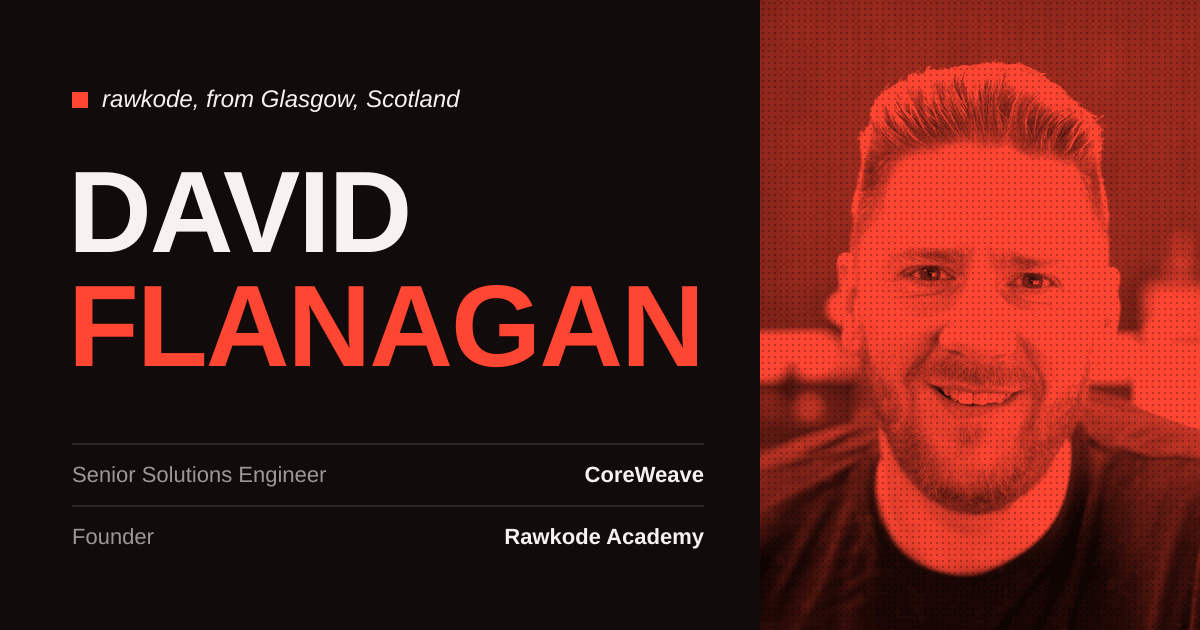
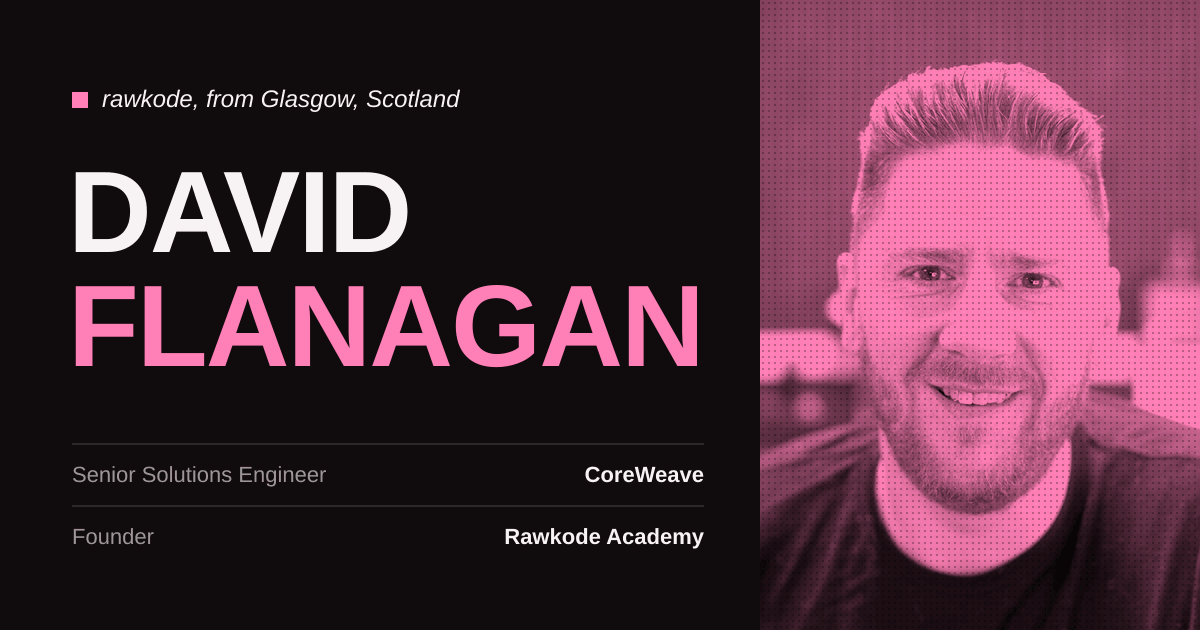
feat(rawkode.dev): replace signal red with Rawkode Academy pink
The red read as hostile. The accent is now Rawkode Academy's own pink
(#ff7ab6), which ties the two sites together and keeps the screen-print
concept, since fluorescent pink is a classic poster ink. Coverage is
unchanged: surname, portrait duotone, primary buttons, hover ink, the
Academy block, and the footer wordmark.

- Accent: oklch(0.76 0.165 355) dark, oklch(0.55 0.2 357) light, with
  dark ink or white text on it as appropriate.
- Neutrals are retinted from hue 30 to the pink's hue 355.
- Contrast holds in both themes: body text at least 9:1, pink on the
  background at least 5:1, text on pink at least 5.2:1.
- OG image, browser theme-colour meta tags, comments, and DESIGN.md
  updated to match.

Claude-Session: https://claude.ai/code/session_01E1riZP7hLfKpjZxvyKe1wQ
This commit was created with the assistance of a LLM.

diff --git a/websites/rawkode.dev/panda.config.ts b/websites/rawkode.dev/panda.config.ts
@@ -4,7 +4,8 @@ import { defineConfig } from '@pandacss/dev';
  * Design system for rawkode.dev.
  *
  * The site is dark-first and mobile-first. The palette is a screen-printed
- * gig poster: near-black ink, true off-white paper, and one signal red.
+ * gig poster: near-black ink, true off-white paper, and one fluorescent
+ * pink borrowed from Rawkode Academy.
  * Theme reactivity still uses the existing `[data-theme]` contract.
  */
 export default defineConfig({
@@ -71,16 +72,17 @@ export default defineConfig({
         },
 
         colors: {
-          /* Stage: near-black ink and signal red, like a screen-printed gig poster. */
+          /* Stage: near-black ink and fluorescent pink, like a screen-printed gig poster. */
           ink: {
-            950: { value: 'oklch(0.16 0.008 30)' },
-            900: { value: 'oklch(0.195 0.01 30)' },
-            850: { value: 'oklch(0.235 0.012 30)' },
-            100: { value: 'oklch(0.965 0.006 30)' },
+            950: { value: 'oklch(0.16 0.008 355)' },
+            900: { value: 'oklch(0.195 0.01 355)' },
+            850: { value: 'oklch(0.235 0.012 355)' },
+            100: { value: 'oklch(0.965 0.006 355)' },
           },
+          /* Rawkode Academy's accent (#ff7ab6), tuned per theme for contrast. */
           signal: {
-            dark: { value: 'oklch(0.665 0.225 30)' },
-            light: { value: 'oklch(0.55 0.215 29)' },
+            dark: { value: 'oklch(0.76 0.165 355)' },
+            light: { value: 'oklch(0.55 0.2 357)' },
           },
         },
       },
@@ -88,44 +90,44 @@ export default defineConfig({
       semanticTokens: {
         colors: {
           surface: {
-            '1':       { value: 'light-dark(oklch(0.975 0.002 30), oklch(0.16 0.008 30))' },
-            '2':       { value: 'light-dark(oklch(1 0 0), oklch(0.195 0.01 30))' },
-            '3':       { value: 'light-dark(oklch(0.935 0.004 30), oklch(0.235 0.012 30))' },
-            glass:     { value: 'light-dark(oklch(1 0 0 / 0.8), oklch(0.195 0.01 30 / 0.8))' },
-            raised:    { value: 'light-dark(oklch(1 0 0), oklch(0.235 0.012 30))' },
-            invert:    { value: 'light-dark(oklch(0.18 0.012 30), oklch(0.965 0.006 30))' },
+            '1':       { value: 'light-dark(oklch(0.975 0.002 355), oklch(0.16 0.008 355))' },
+            '2':       { value: 'light-dark(oklch(1 0 0), oklch(0.195 0.01 355))' },
+            '3':       { value: 'light-dark(oklch(0.935 0.004 355), oklch(0.235 0.012 355))' },
+            glass:     { value: 'light-dark(oklch(1 0 0 / 0.8), oklch(0.195 0.01 355 / 0.8))' },
+            raised:    { value: 'light-dark(oklch(1 0 0), oklch(0.235 0.012 355))' },
+            invert:    { value: 'light-dark(oklch(0.18 0.012 355), oklch(0.965 0.006 355))' },
           },
 
           text: {
-            primary:   { value: 'light-dark(oklch(0.18 0.012 30), oklch(0.965 0.006 30))' },
-            secondary: { value: 'light-dark(oklch(0.38 0.014 30), oklch(0.8 0.01 30))' },
-            tertiary:  { value: 'light-dark(oklch(0.48 0.014 30), oklch(0.68 0.012 30))' },
-            invert:    { value: 'light-dark(oklch(0.975 0.002 30), oklch(0.16 0.008 30))' },
+            primary:   { value: 'light-dark(oklch(0.18 0.012 355), oklch(0.965 0.006 355))' },
+            secondary: { value: 'light-dark(oklch(0.38 0.014 355), oklch(0.8 0.01 355))' },
+            tertiary:  { value: 'light-dark(oklch(0.48 0.014 355), oklch(0.68 0.012 355))' },
+            invert:    { value: 'light-dark(oklch(0.975 0.002 355), oklch(0.16 0.008 355))' },
           },
 
           accent: {
-            DEFAULT: { value: 'light-dark(oklch(0.55 0.215 29), oklch(0.665 0.225 30))' },
-            hover:   { value: 'light-dark(oklch(0.47 0.19 29), oklch(0.74 0.19 32))' },
-            ink:     { value: 'light-dark(oklch(0.99 0 0), oklch(0.14 0.02 30))' },
-            muted:   { value: 'light-dark(oklch(0.55 0.215 29 / 0.1), oklch(0.665 0.225 30 / 0.14))' },
-            soft:    { value: 'light-dark(oklch(0.55 0.215 29 / 0.14), oklch(0.665 0.225 30 / 0.18))' },
-            cyan:    { value: 'light-dark(oklch(0.55 0.215 29), oklch(0.665 0.225 30))' },
-            gold:    { value: 'light-dark(oklch(0.55 0.215 29), oklch(0.665 0.225 30))' },
-            rose:    { value: 'light-dark(oklch(0.55 0.215 29), oklch(0.665 0.225 30))' },
+            DEFAULT: { value: 'light-dark(oklch(0.55 0.2 357), oklch(0.76 0.165 355))' },
+            hover:   { value: 'light-dark(oklch(0.47 0.18 357), oklch(0.83 0.13 355))' },
+            ink:     { value: 'light-dark(oklch(0.99 0 0), oklch(0.15 0.03 355))' },
+            muted:   { value: 'light-dark(oklch(0.55 0.2 357 / 0.1), oklch(0.76 0.165 355 / 0.14))' },
+            soft:    { value: 'light-dark(oklch(0.55 0.2 357 / 0.14), oklch(0.76 0.165 355 / 0.18))' },
+            cyan:    { value: 'light-dark(oklch(0.55 0.2 357), oklch(0.76 0.165 355))' },
+            gold:    { value: 'light-dark(oklch(0.55 0.2 357), oklch(0.76 0.165 355))' },
+            rose:    { value: 'light-dark(oklch(0.55 0.2 357), oklch(0.76 0.165 355))' },
             success: { value: 'light-dark(oklch(0.5 0.13 150), oklch(0.78 0.16 150))' },
           },
 
           border: {
-            subtle:  { value: 'light-dark(oklch(0.18 0.012 30 / 0.12), oklch(0.965 0.006 30 / 0.12))' },
-            DEFAULT: { value: 'light-dark(oklch(0.18 0.012 30 / 0.24), oklch(0.965 0.006 30 / 0.24))' },
-            strong:  { value: 'light-dark(oklch(0.18 0.012 30 / 0.7), oklch(0.965 0.006 30 / 0.7))' },
+            subtle:  { value: 'light-dark(oklch(0.18 0.012 355 / 0.12), oklch(0.965 0.006 355 / 0.12))' },
+            DEFAULT: { value: 'light-dark(oklch(0.18 0.012 355 / 0.24), oklch(0.965 0.006 355 / 0.24))' },
+            strong:  { value: 'light-dark(oklch(0.18 0.012 355 / 0.7), oklch(0.965 0.006 355 / 0.7))' },
           },
 
           status: {
-            danger:  { value: 'light-dark(oklch(0.55 0.215 29), oklch(0.665 0.225 30))' },
+            danger:  { value: 'light-dark(oklch(0.55 0.2 357), oklch(0.76 0.165 355))' },
             warning: { value: 'light-dark(oklch(0.6 0.14 70), oklch(0.82 0.14 80))' },
             success: { value: 'light-dark(oklch(0.5 0.13 150), oklch(0.78 0.16 150))' },
-            info:    { value: 'light-dark(oklch(0.18 0.012 30), oklch(0.965 0.006 30))' },
+            info:    { value: 'light-dark(oklch(0.18 0.012 355), oklch(0.965 0.006 355))' },
           },
         },
       },

diff --git a/websites/rawkode.dev/DESIGN.md b/websites/rawkode.dev/DESIGN.md
@@ -4,24 +4,29 @@ rawkode.dev is set like a screen-printed gig poster: rawkode = rock + code.
 The apps are billed like a festival lineup, the Academy gets the one drenched
 surface, and the portrait is a two-colour print.
 
+The accent is Rawkode Academy's pink (`#ff7ab6`), which ties the two sites
+together and is also a classic fluorescent screen-print ink. It replaced an
+earlier signal red that read as hostile.
+
 ## Colour
 
-Committed strategy: near-black ink, true off-white paper, one signal red.
+Committed strategy: near-black ink, true off-white paper, one fluorescent
+pink. Neutrals carry a trace of the pink's hue (355) so they belong to it.
 Tokens live in `panda.config.ts` as `light-dark()` pairs; the `[data-theme]`
 contract and the system-theme fallback are unchanged.
 
 | Role | Dark | Light |
 | :-- | :-- | :-- |
-| Surface (`--surface-1`) | `oklch(0.16 0.008 30)` | `oklch(0.975 0.002 30)` |
-| Ink (`--text-primary`) | `oklch(0.965 0.006 30)` | `oklch(0.18 0.012 30)` |
-| Signal (`--color-accent`) | `oklch(0.665 0.225 30)` | `oklch(0.55 0.215 29)` |
-| Text on signal (`--color-accent-ink`) | ink | white |
+| Surface (`--surface-1`) | `oklch(0.16 0.008 355)` | `oklch(0.975 0.002 355)` |
+| Ink (`--text-primary`) | `oklch(0.965 0.006 355)` | `oklch(0.18 0.012 355)` |
+| Accent (`--color-accent`) | `oklch(0.76 0.165 355)` | `oklch(0.55 0.2 357)` |
+| Text on accent (`--color-accent-ink`) | `oklch(0.15 0.03 355)` | white |
 
-Measured contrast: body ≥ 9:1, tertiary ≥ 6:1, signal on surface ≥ 5:1,
-text on signal ≥ 5.2:1, in both themes.
+Measured contrast: body ≥ 9:1, tertiary ≥ 6:1, accent on surface ≥ 5:1,
+text on accent ≥ 5.2:1, in both themes.
 
-Signal red is for the name, hover ink, the primary button, and the Academy
-drench. Keep it off body copy.
+Pink is for the surname, hover ink, the primary button, the portrait duotone,
+the footer wordmark, and the Academy drench. Keep it off body copy.
 
 ## Type
 
@@ -40,7 +45,7 @@ Poster headings that must fill a column use container units
 ## Motion
 
 - Hero name: rises and compresses from 125% to 62% width on load.
-- Lineup acts: signal red wipes across the name on hover/focus (clip-path).
+- Lineup acts: pink wipes across the name on hover/focus (clip-path).
 - Portrait: prints in from the bottom (clip-path).
 - Scroll-driven extras (lineup tiers, article progress bar) sit behind
   `@supports (animation-timeline: …)`.
